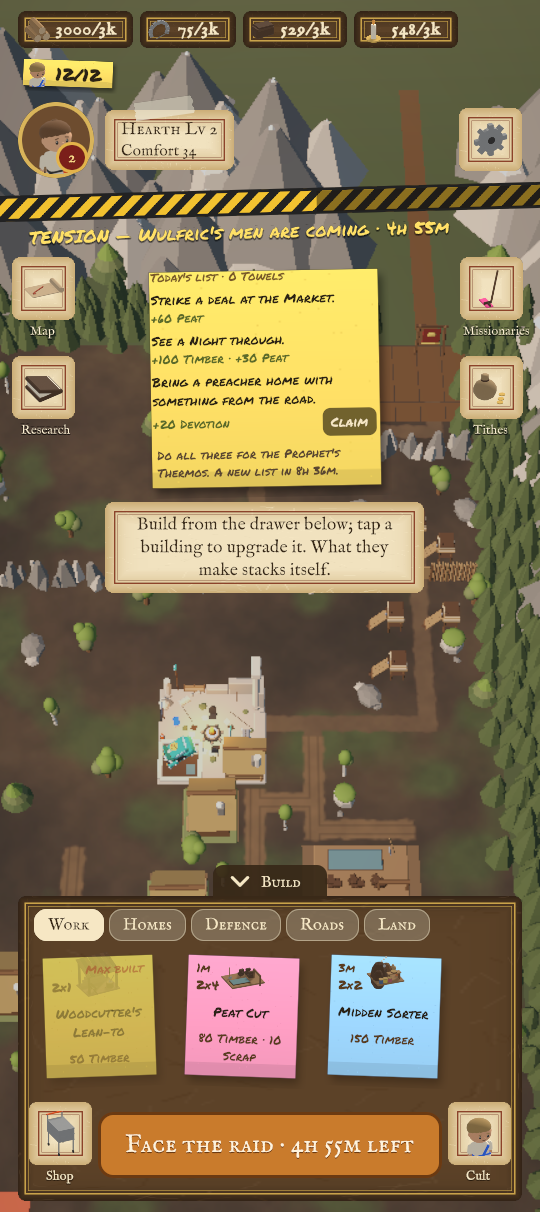
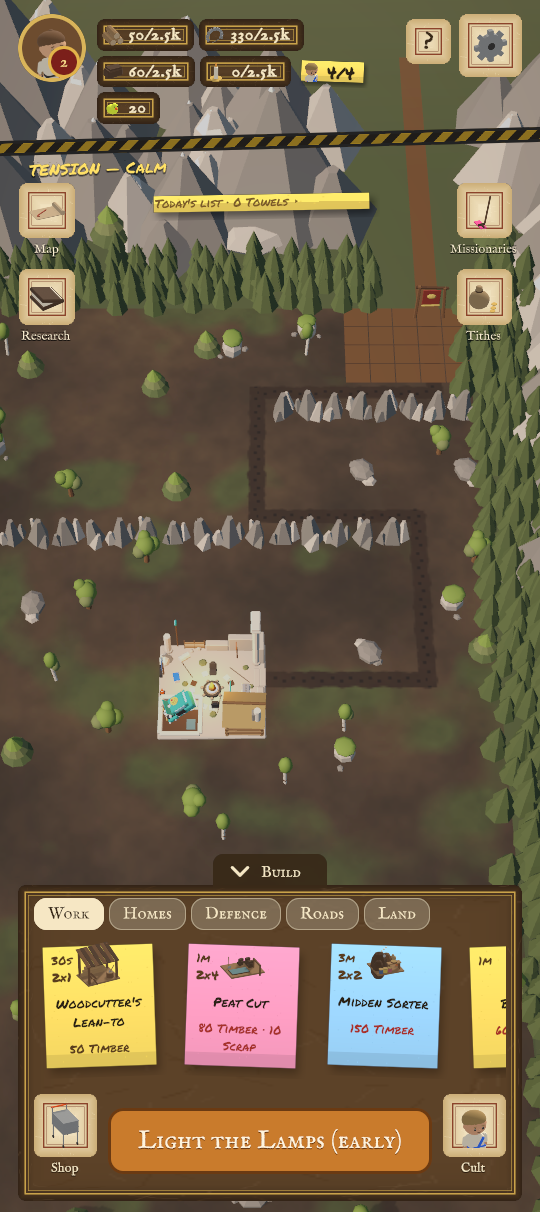
Night: the camera comes in on the Hearth's end of the road; raiders, Prophet and cultists half again bigger; a lighter night; the raiders' road a dark trodden track

diff --git a/client/CultOfComfort.Unity/Assets/Scripts/Views/BattleView.cs b/client/CultOfComfort.Unity/Assets/Scripts/Views/BattleView.cs
@@ -13,6 +13,9 @@ namespace CultOfComfort.Client
     /// </summary>
     public sealed class BattleView : MonoBehaviour
     {
+        /// <summary>Raiders, the Prophet and his cultists stand this much bigger at Night than a tile would make them.</summary>
+        public const float UnitScale = 1.6f;
+
         private readonly Dictionary<int, EnemyVisual> _enemies = new Dictionary<int, EnemyVisual>();
         private readonly List<Effect> _effects = new List<Effect>();
         private MaterialPropertyBlock _block;
@@ -76,6 +79,7 @@ namespace CultOfComfort.Client
             var model = ArtLibrary.Instantiate("prophet", _leader);
             if (model != null)
             {
+                model.transform.localScale *= UnitScale;
                 _prophet = model.AddComponent<PartAnimator>();
                 _prophet.Bind();
             }
@@ -125,6 +129,7 @@ namespace CultOfComfort.Client
             PartAnimator animator = null;
             if (model != null)
             {
+                model.transform.localScale *= UnitScale;
                 animator = model.AddComponent<PartAnimator>();
                 animator.Bind();
             }
@@ -700,6 +705,7 @@ namespace CultOfComfort.Client
                 modelRoot.SetParent(_root, false);
                 model.transform.SetParent(modelRoot, false);
                 var lord = enemy.Type == EnemyType.Lord;
+                model.transform.localScale *= UnitScale; // chunkier than the village's people: they're the show tonight
                 if (lord)
                 {
                     model.transform.localScale *= 1.35f; // the boss should look like one
@@ -711,7 +717,7 @@ namespace CultOfComfort.Client
 
                 var animator = model.AddComponent<PartAnimator>();
                 animator.Bind();
-                var barHeight = lord ? 1.5f : 1.1f;
+                var barHeight = (lord ? 1.5f : 1.1f) * UnitScale;
                 var modelBar = Shapes.Create(PrimitiveType.Cube, Palette.HealthGood, new Vector3(0f, barHeight, 0f), new Vector3(0.6f, 0.06f, 0.06f), modelRoot, "Health");
                 var start = Shapes.ToWorld(_battle.PositionOf(enemy));
                 modelRoot.localPosition = start;

diff --git a/client/CultOfComfort.Unity/Assets/Scripts/GameController.cs b/client/CultOfComfort.Unity/Assets/Scripts/GameController.cs
@@ -1743,9 +1743,7 @@ namespace CultOfComfort.Client
 
                 _openLevel = _snapshot.HearthLevel;
                 _board.SetOpenLevel(_openLevel);
-                var (min, max) = VillageFraming.HomeBounds(VillageMap.Demo, _openLevel);
-                _rig.SetBounds(min, max);
-                _framePending = 2;
+                FrameStage();
             }
 
             if (_phase == GamePhase.Dusk && _snapshot.UnseenReport != null && !_showingReport)
@@ -1835,6 +1833,7 @@ namespace CultOfComfort.Client
             _board.ShowCursor(null, false);
             _accumulator = 0f;
             _phase = GamePhase.Night;
+            FrameStage(); // in close on the road for the fight
             _hud.ShowPhase(_phase);
             Announce("Night falls. Tap the ground to move the Prophet.");
         }
@@ -2048,6 +2047,7 @@ namespace CultOfComfort.Client
             _framePending = 2;
             _audio.SetNight(false);
             _phase = GamePhase.Dusk;
+            FrameStage(); // back to the whole village
             _hud.ShowPhase(_phase);
             Announce(report != null && report.Salvage > 0
                 ? $"Dawn. {report.Salvage} Scrap salvaged from {Ruler.Short}'s dropped horseshoes."
@@ -2472,6 +2472,14 @@ namespace CultOfComfort.Client
         /// </summary>
         /// <summary>Captures render at a phone's size without one: the screen the layout and the camera frame for.</summary>
         public Vector2Int? ScreenOverride { get; set; }
+
+        /// <summary>The camera's stage: the raiders' road at Night, the village by day. Framed again on the next frames.</summary>
+        private void FrameStage()
+        {
+            var (min, max) = _phase == GamePhase.Night ? VillageFraming.NightBounds(VillageMap.Demo) : VillageFraming.HomeBounds(VillageMap.Demo, _openLevel);
+            _rig.SetBounds(min, max);
+            _framePending = 2;
+        }
 
         private void TrackOrientation()
         {

diff --git a/client/CultOfComfort.Unity/Assets/Scripts/Views/GroundPainter.cs b/client/CultOfComfort.Unity/Assets/Scripts/Views/GroundPainter.cs
@@ -28,7 +28,10 @@ namespace CultOfComfort.Client
         private static readonly Color DryMud = Shapes.Hex("#4a3d2b");
         private static readonly Color DampMud = Shapes.Hex("#2f271d");
         private static readonly Color Moss = Shapes.Hex("#3f4a2a");
-        private static readonly Color Track = Shapes.Hex("#5a4632");
+        // The raiders' road: trampled darker than any track the cult lays, with hoof and boot prints along it, so
+        // "That's the raiders' road" points at something you can see (2026-10-16: it looked like the village's tracks).
+        private static readonly Color Track = Shapes.Hex("#2c2117");
+        private static readonly Color Print = Shapes.Hex("#1a130d");
         private static readonly Color Dirt = Shapes.Hex("#6b5238");
         private static readonly Color Rut = Shapes.Hex("#57422d");
         private static readonly Color Plank = Shapes.Hex("#8a6a43");
@@ -162,7 +165,14 @@ namespace CultOfComfort.Client
                 }
 
                 default:
-                    return Track * (0.95f + grain);
+                {
+                    // Prints: small dark ovals in a staggered line along the way.
+                    var step = along == 1 ? x : y;
+                    var side = along == 1 ? ly : lx;
+                    var k = Mathf.FloorToInt(step * 3f);
+                    var print = Mathf.Abs(Mathf.Repeat(step * 3f, 1f) - 0.5f) < 0.18f && Mathf.Abs(side - (k % 2 == 0 ? 0.09f : -0.09f)) < 0.06f;
+                    return (print ? Print : Track) * (0.95f + grain);
+                }
             }
         }
 

diff --git a/client/CultOfComfort.Unity/Assets/Scripts/Views/VillageFraming.cs b/client/CultOfComfort.Unity/Assets/Scripts/Views/VillageFraming.cs
@@ -1,3 +1,4 @@
+using System.Linq;
 using CultOfComfort.Simulation.Base;
 using CultOfComfort.Simulation.Grid;
 using UnityEngine;
@@ -31,6 +32,18 @@ namespace CultOfComfort.Client
             maxX = Mathf.Min(maxX, Mathf.Max(HomeWidth - 1, hearthEnd.X + 1));
             maxY = Mathf.Min(maxY, Mathf.Max(HomeHeight - 1, hearthEnd.Y + 1));
             return (new Vector2(0f, -maxY), new Vector2(maxX, 0f));
+        }
+
+        /// <summary>
+        /// The Night's stage: the Hearth's end of the raiders' road with a tile and a half round it, so the camera comes in
+        /// close on the fight (owner's playtest 2026-10: "models look cheap" was mostly raiders a few pixels tall).
+        /// </summary>
+        public static (Vector2 Min, Vector2 Max) NightBounds(VillageMap map)
+        {
+            const float margin = 1.5f;
+            // The last three fifths of the road: where the towers stand and the Prophet fights. Raiders walk into view.
+            var tiles = map.Road.Skip(map.Road.Count * 2 / 5).Concat(map.HearthTiles).ToList();
+            return (new Vector2(tiles.Min(t => t.X) - margin, -tiles.Max(t => t.Y) - margin), new Vector2(tiles.Max(t => t.X) + margin, -tiles.Min(t => t.Y) + margin));
         }
 
         /// <summary>The whole valley: the map, its forest edge and the river past the south and east.</summary>

diff --git a/client/CultOfComfort.Unity/Assets/Scripts/Views/NightMood.cs b/client/CultOfComfort.Unity/Assets/Scripts/Views/NightMood.cs
@@ -11,8 +11,8 @@ namespace CultOfComfort.Client
     {
         private static readonly Color Moonlight = Shapes.Hex("#8fa6d6");
         private static readonly Color NightHaze = Shapes.Hex("#26304a");
-        private const float NightSunIntensity = 0.75f; // bright enough to read the board on a phone (owner 2026-10-15: "does not look great")
-        private const float NightAmbient = 0.62f;
+        private const float NightSunIntensity = 0.9f; // bright enough to read the board on a phone (owner 2026-10-15: "does not look great")
+        private const float NightAmbient = 0.74f; // 2026-10-16: brighter again, the raiders were dark on dark
 
         private readonly Camera _camera;
         private readonly Light _sun;
